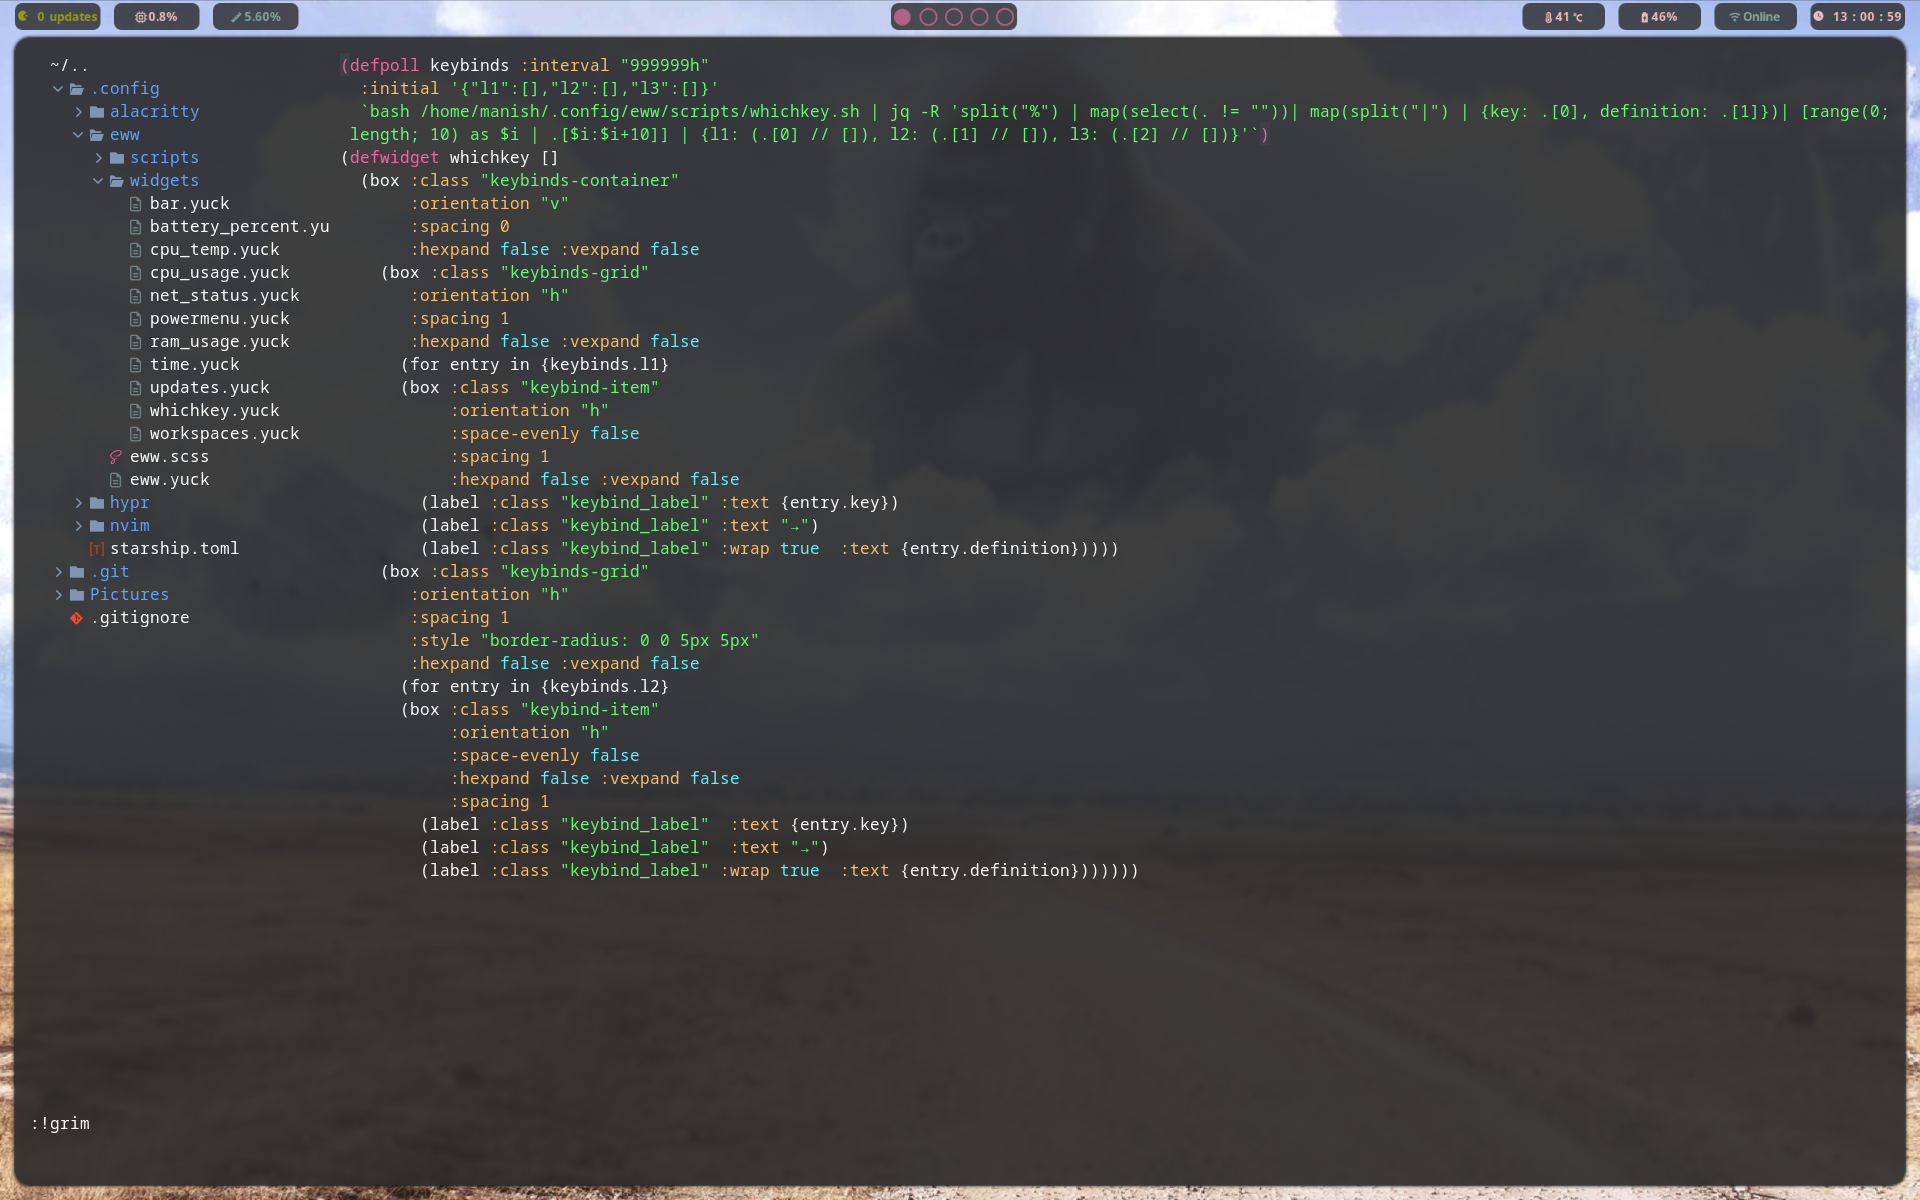
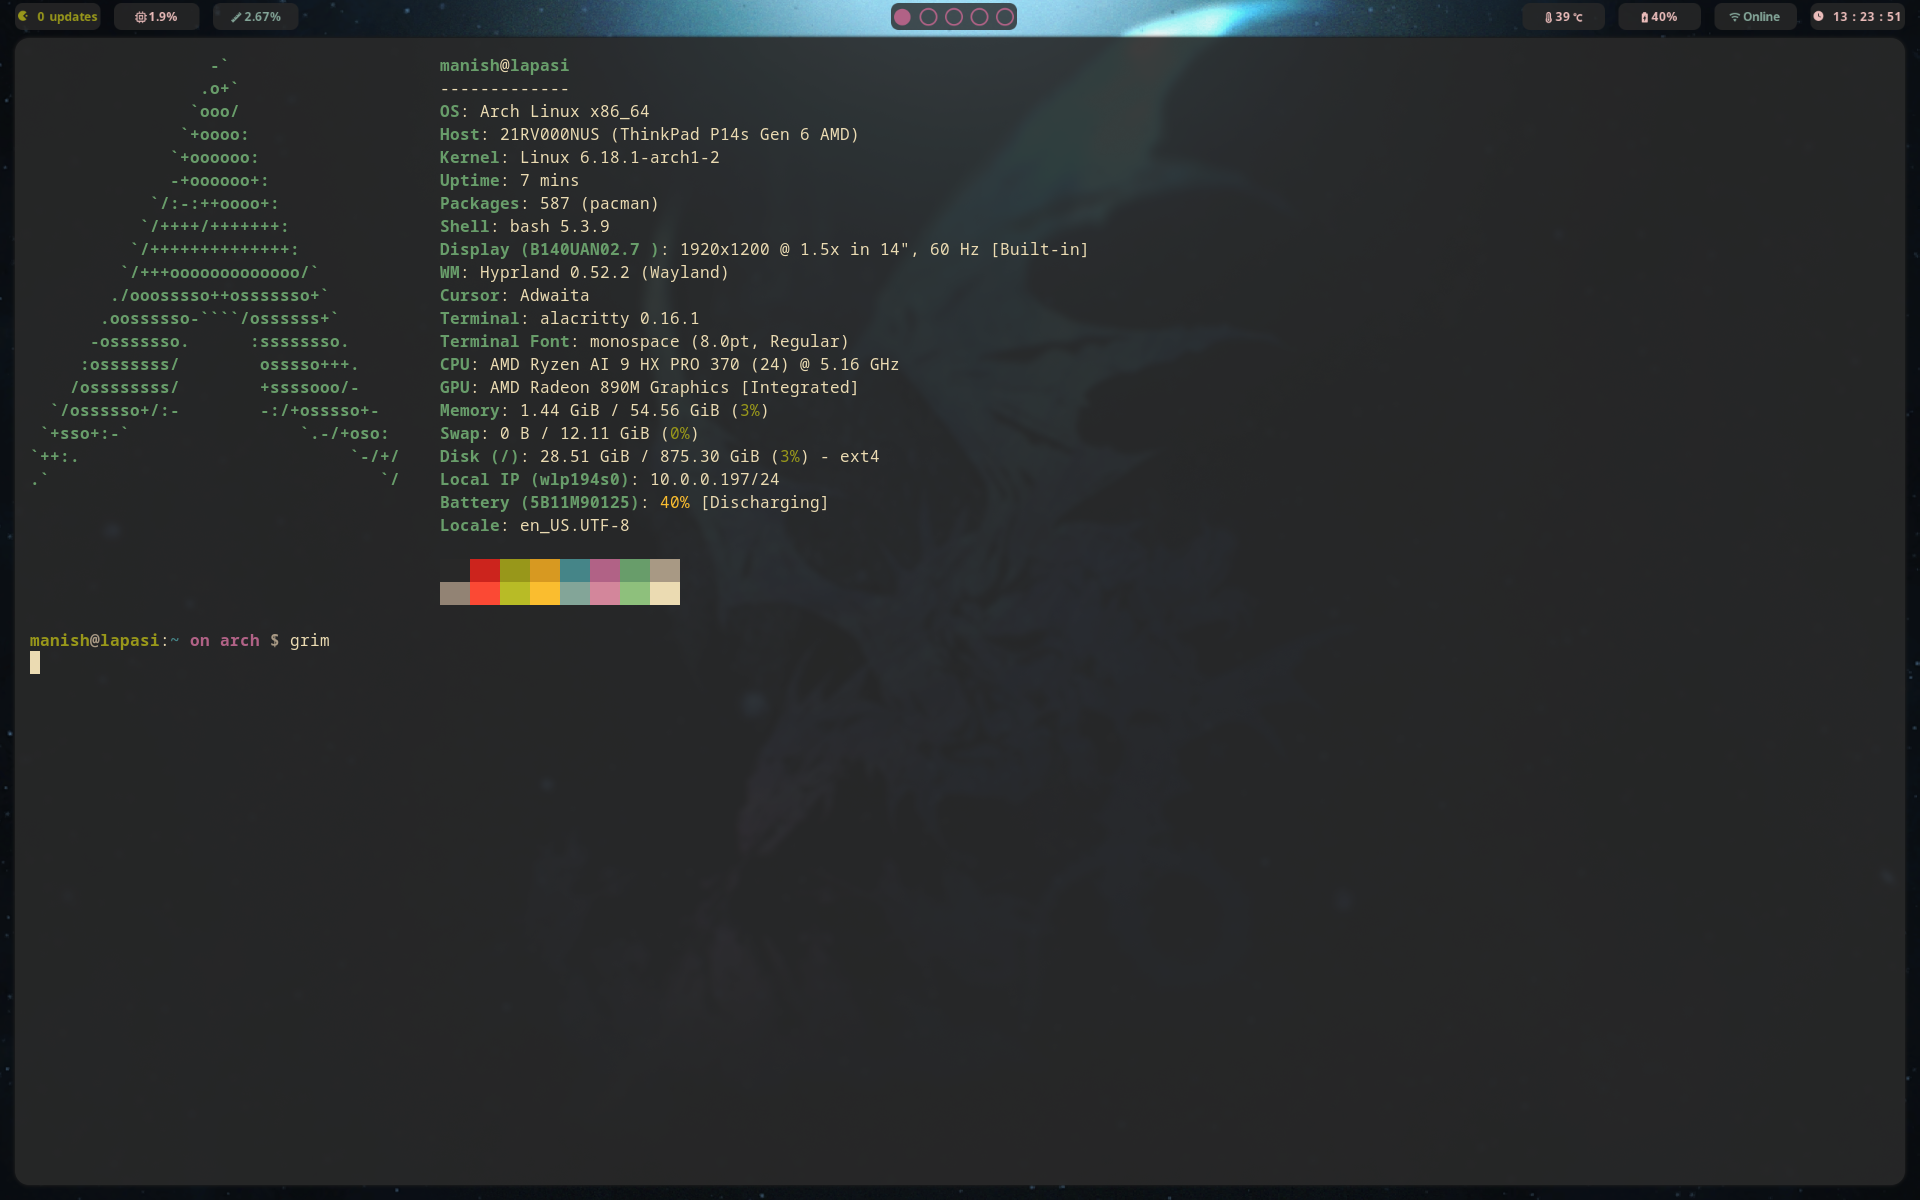
rice pics

diff --git a/readme.md b/readme.md
@@ -1,3 +1,4 @@
 # Arch Rice!
 
+![Rice!](./pics/arch_rice2.png)
 ![Rice!](./pics/arch_rice.png)
